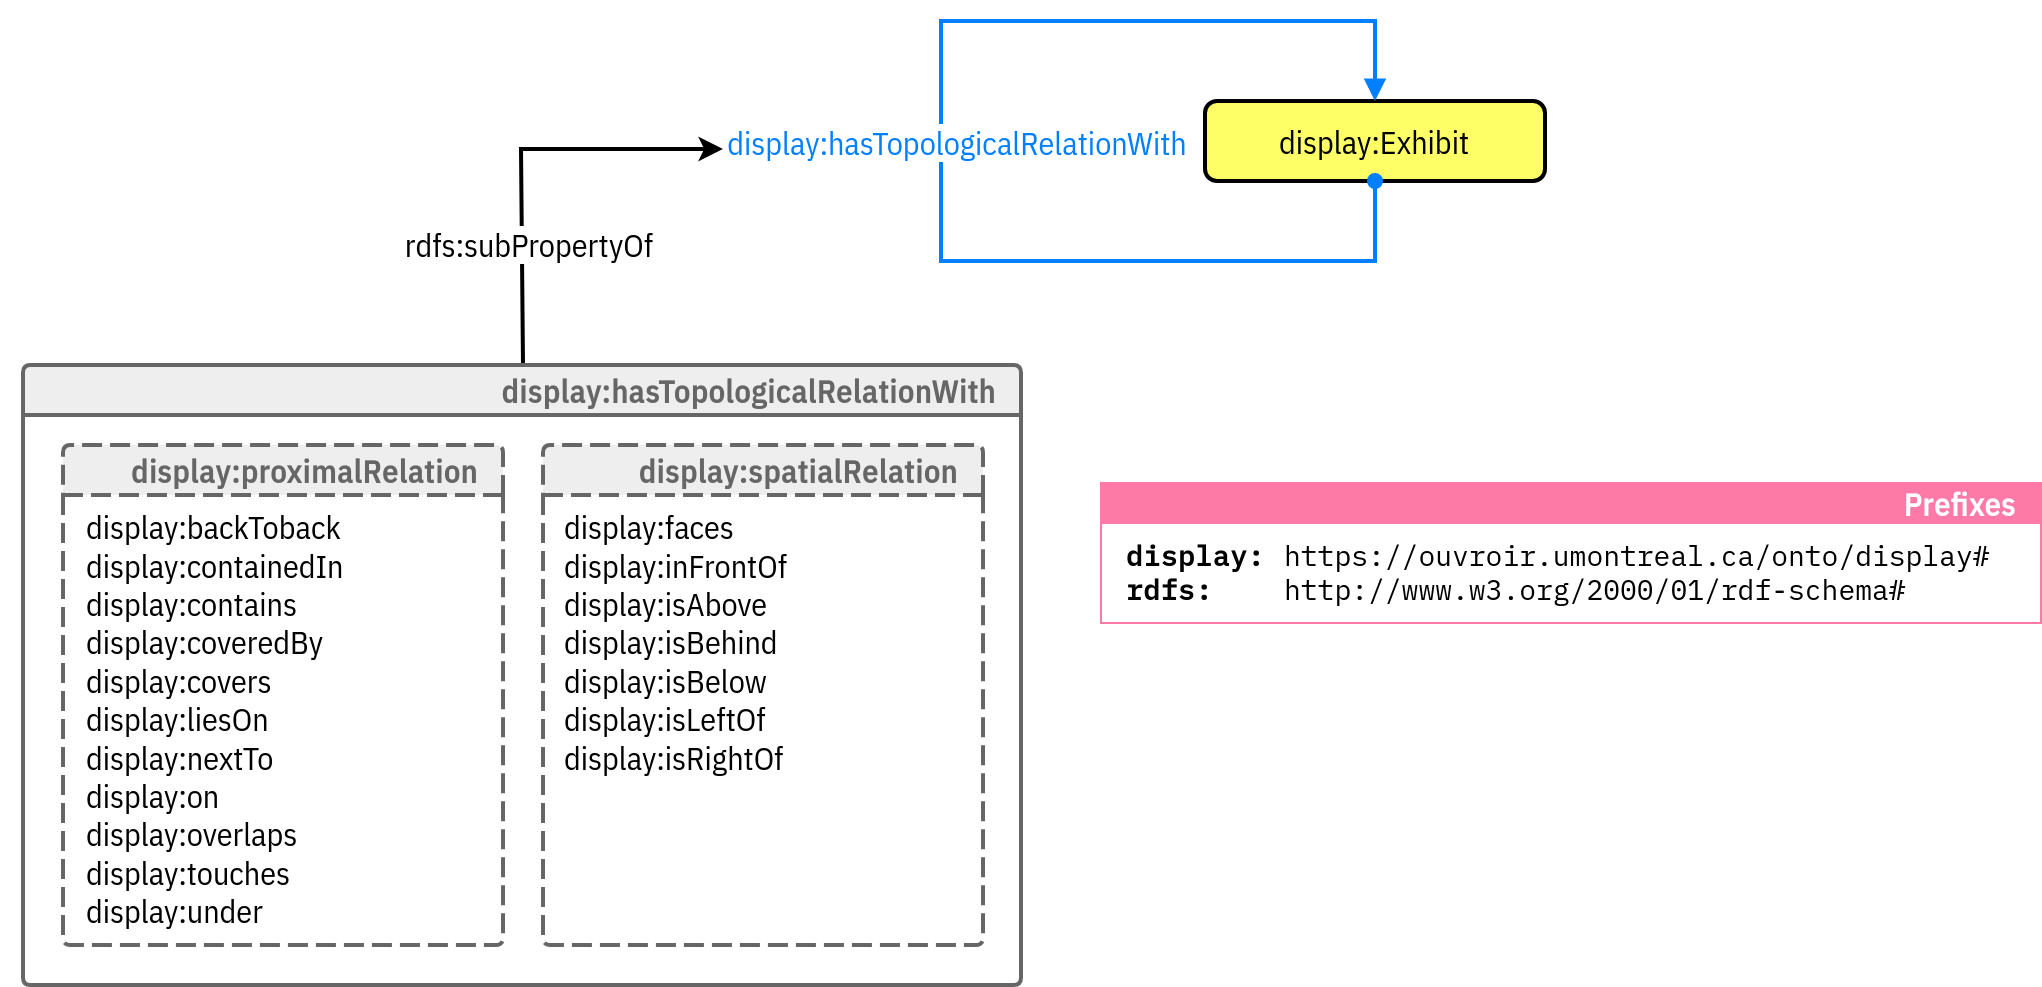
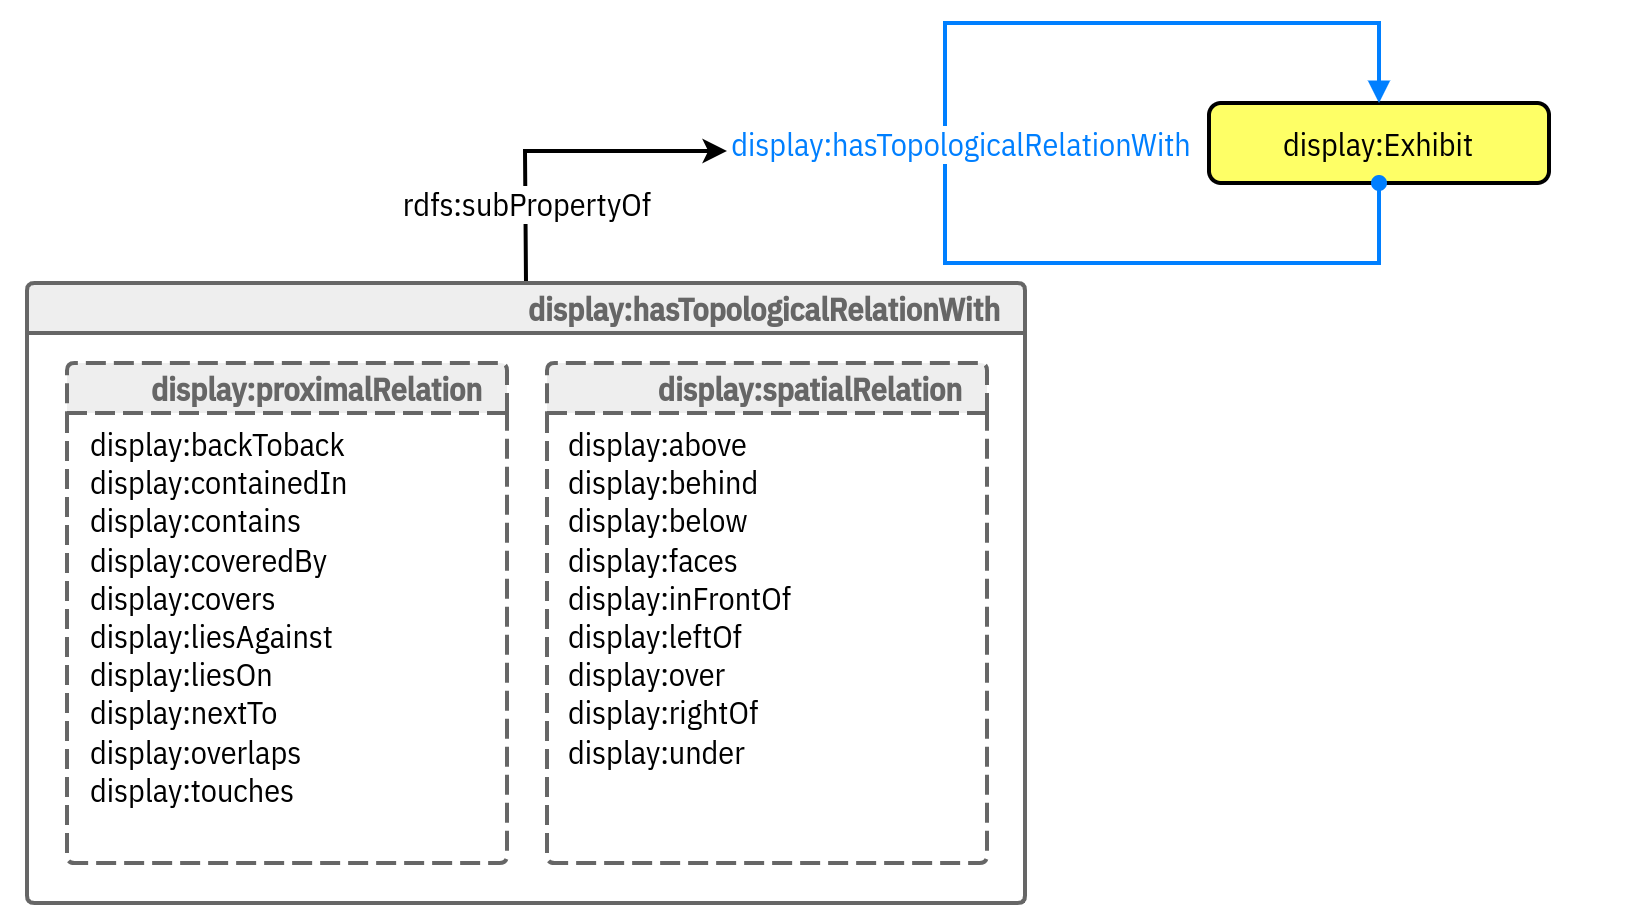
documenting: update images pour namespace, échelle et détails

diff --git a/documenting/2024-12-17-documenting.md b/documenting/2024-12-17-documenting.md
@@ -160,7 +160,7 @@ The *Display* tool redefines how we study exhibitions by:
 
 ===>>>>>>===
 
-## L’ontologie Display
+## The Display Ontology
 
 An ontology for the topology of the exhibition
 
